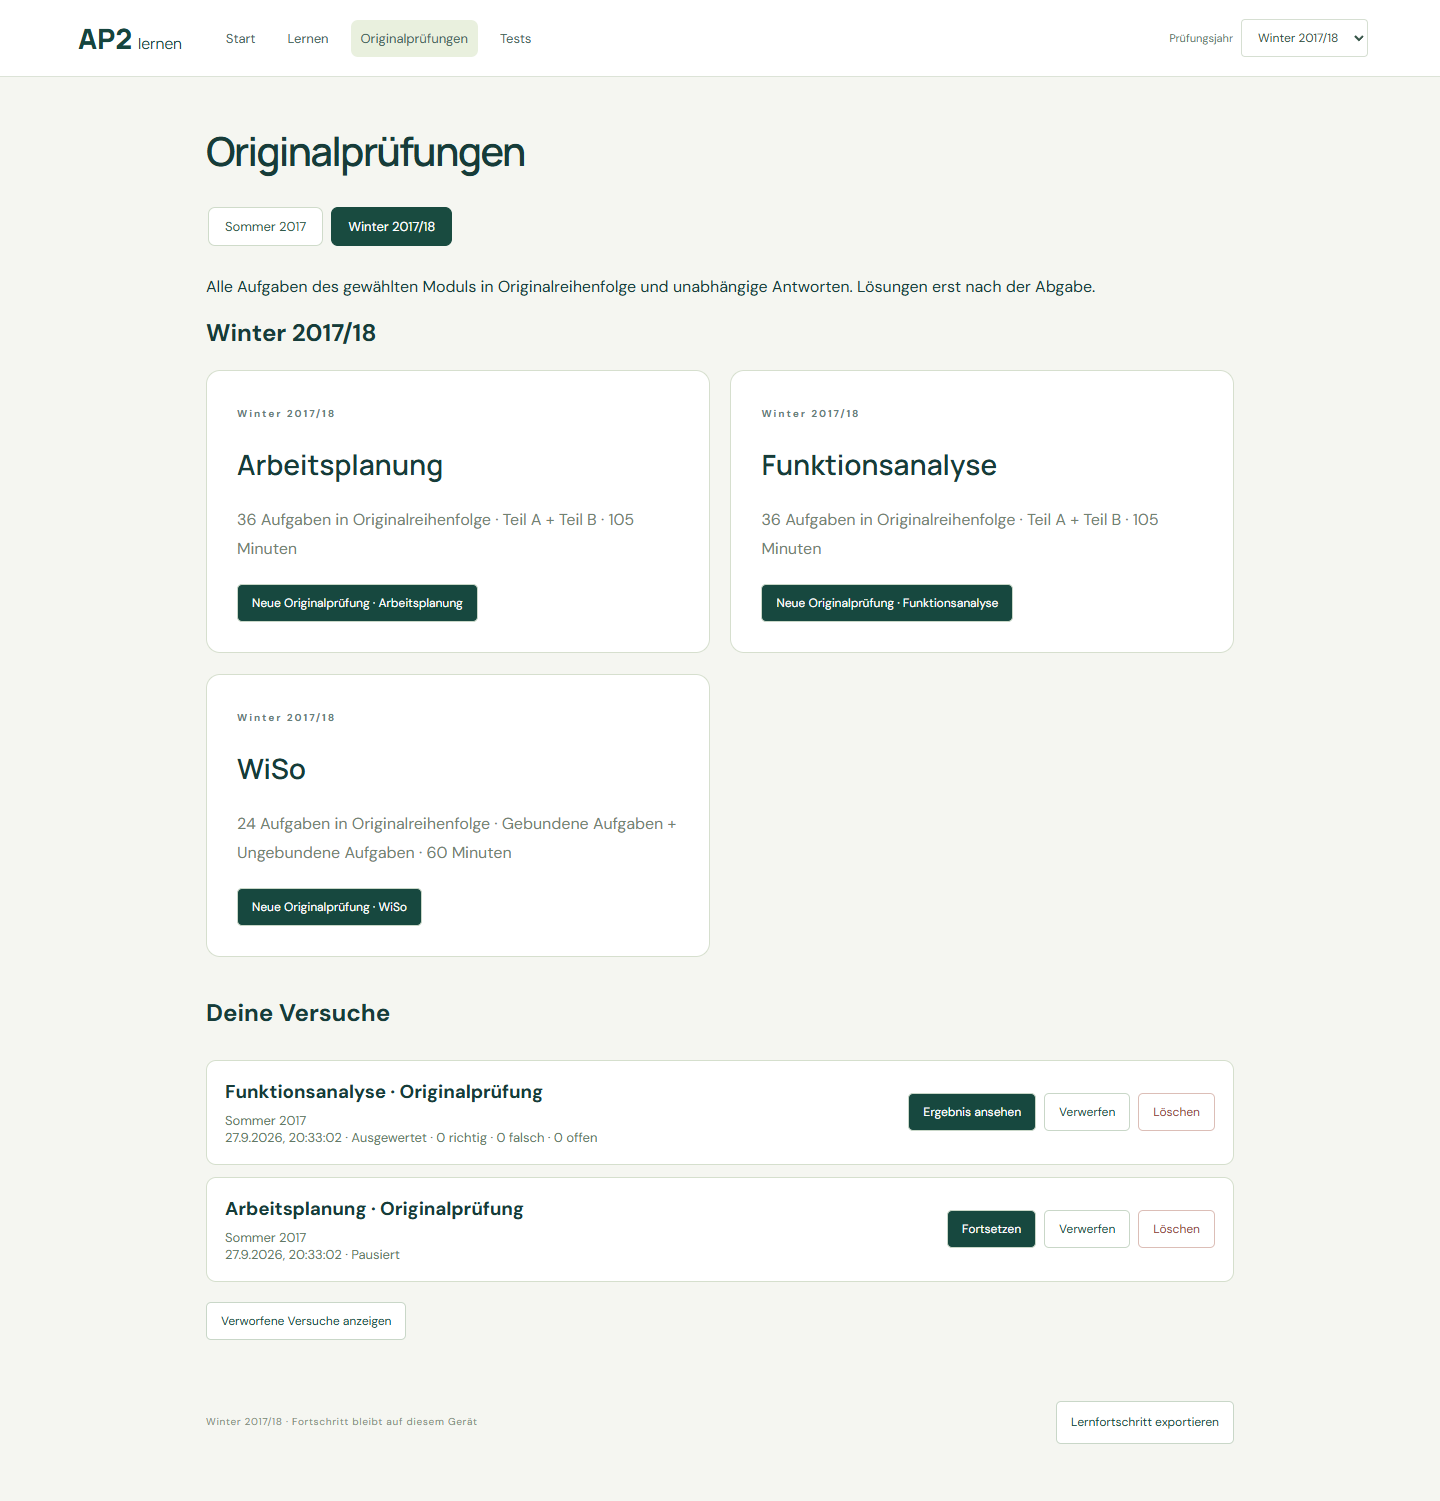
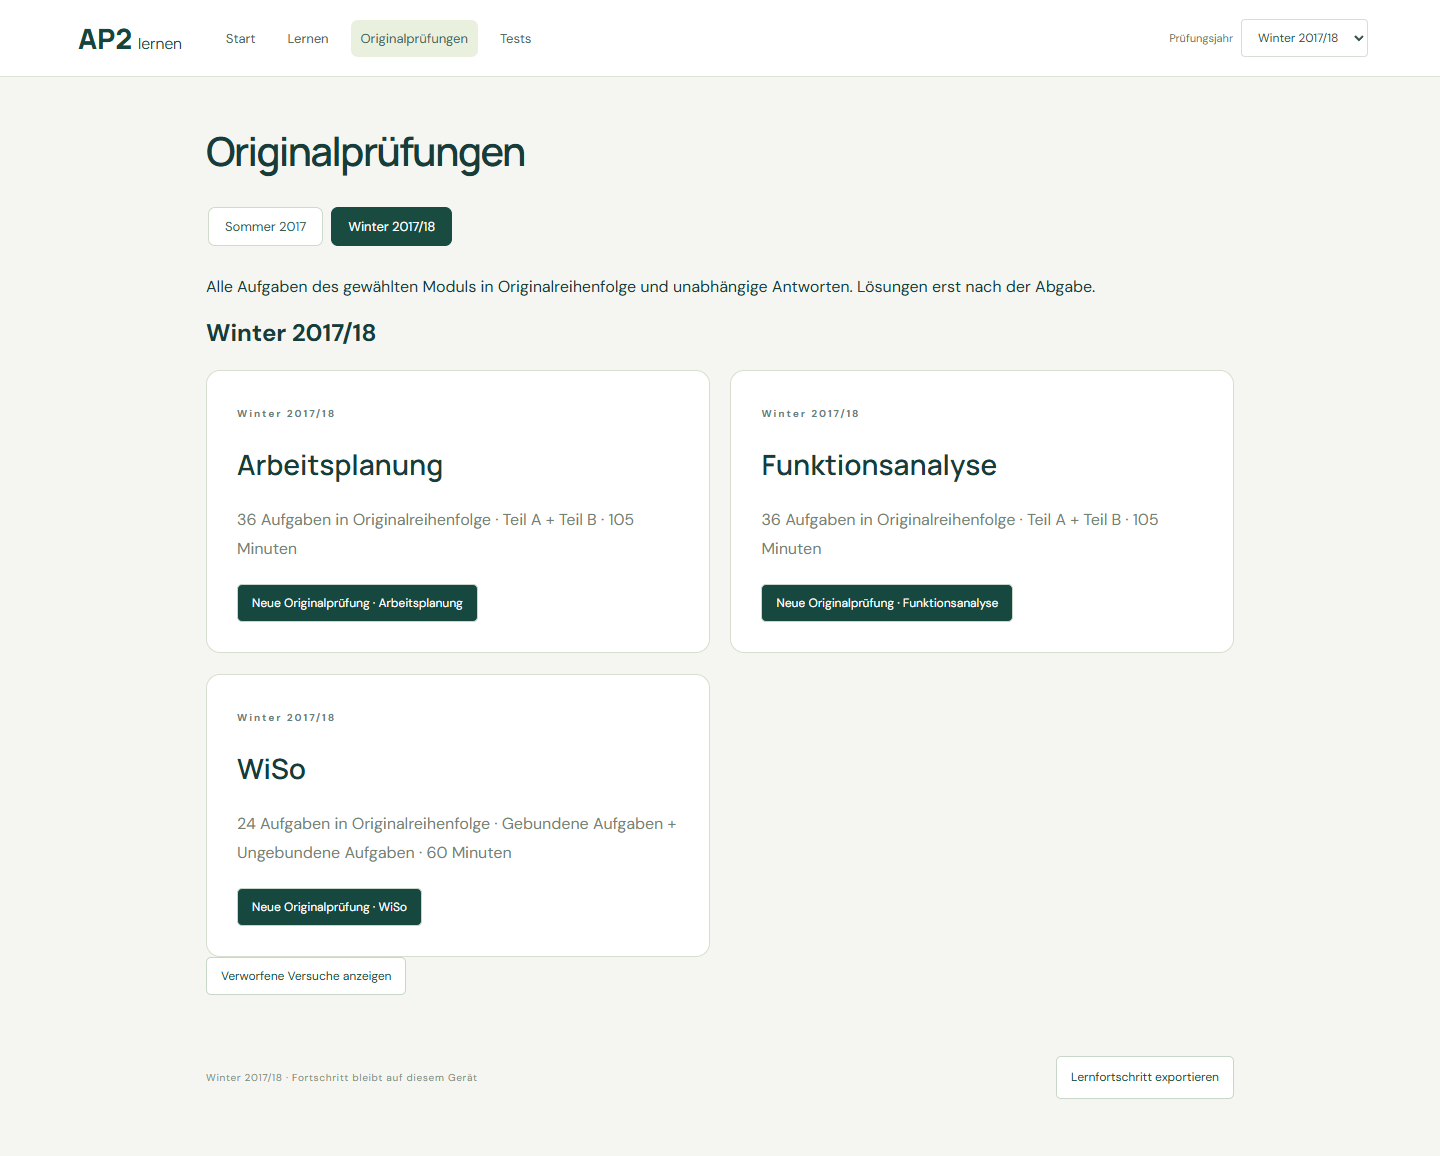
Keep exam history aligned with selected year

diff --git a/src/learning/LearningApp.tsx b/src/learning/LearningApp.tsx
@@ -79,11 +79,12 @@ export default function LearningApp(){
  const progress=moduleProgress(exam?.questions??[],attempts,sessions);const review=reviews.find(r=>r.question_id===original?.question_id);const current=original?effectiveQuestion(original,review):undefined;
  const base=keys?.answers.find(a=>a.question_id===original?.question_id);const answer=base?effectiveAnswer(base,answerReviews.find(r=>r.question_id===original?.question_id)) as OfficialAnswer:undefined;
  const solution=solutions.find(s=>s.question_id===original?.question_id);const currentPart=questionPart(config,original?.question_number??'');
- const savedTests=(type?:TestType)=>[...testSessions].filter(s=>s.status!=='discarded'&&(!type||s.test_type===type)).sort((a,b)=>b.started_at.localeCompare(a.started_at));
+ const inSelectedYear=(s:TestSession)=>s.test_type==='original'?s.exam===locationState.examId:s.exam===locationState.examId||s.source_mix.some(q=>q.exam===locationState.examId);
+ const savedTests=(type?:TestType)=>[...testSessions].filter(s=>s.status!=='discarded'&&(!type||s.test_type===type&&inSelectedYear(s))).sort((a,b)=>b.started_at.localeCompare(a.started_at));
  const deletedTest=(id:string)=>{setTestSessions(all=>all.filter(s=>s.test_id!==id));if(selectedTest?.test_id===id){setSelectedTest(undefined);const next={...locationState,view:'tests' as View,sessionId:undefined};history.replaceState(null,'',routeUrl(next,location.href));setLocationState(next);}};
  const historyList=(list:TestSession[],heading:string)=>list.length?<section className="session-history" aria-label={heading}><h2>{heading}</h2>{list.map(s=>{const result=isEligibleForAnalysis(s)?sessionResult(s):null;return <article key={s.test_id} data-test-id={s.test_id}><div><h3>{findModule(s.exam,s.module)?.title??s.module} · {s.test_type==='original'?'Originalprüfung':`Modultest ${s.mode}`}</h3><p>{[...new Set(s.source_mix.map(q=>examLabel(q.exam)))].join(' + ')||examLabel(s.exam)}</p><p>{new Date(s.started_at).toLocaleString('de-DE')} · {s.status==='active'?'Läuft':s.status==='paused'?'Pausiert':s.status==='completed'?(result?.vorlaeufig?'Vorläufig ausgewertet':'Ausgewertet'):s.status==='discarded'?'Verworfen':'Abgebrochen'}{result?` · ${result.richtig} richtig · ${result.falsch} falsch · ${result.pending} offen`:''}</p></div><div className="record-actions">{!['abandoned','discarded'].includes(s.status)&&<button className="primary" disabled={busy} onClick={()=>openTest(s)}>{s.status==='completed'?'Ergebnis ansehen':'Fortsetzen'}</button>}<RecordLifecycle compact session={s} repository={repository} disabled={busy} onUpdated={updatedTest} onDeleted={deletedTest} onBusy={setLifecycleBusy}/></div></article>;})}</section>:null;
  const testHistory=(type?:TestType,filter?:'unfinished'|'completed')=>historyList(savedTests(type).filter(s=>filter==='unfinished'?['active','paused'].includes(s.status):filter==='completed'?isEligibleForAnalysis(s):true),filter==='unfinished'?'Weiterlernen':filter==='completed'?'Letzte Prüfungen':type?'Deine Versuche':'Prüfungen und Tests');
- const discardedHistory=<section className="discarded-history"><button className="outline" disabled={busy} onClick={()=>setShowDiscarded(v=>!v)}>{showDiscarded?'Verworfene Versuche ausblenden':'Verworfene Versuche anzeigen'}</button>{showDiscarded&&(historyList(testSessions.filter(s=>s.status==='discarded'),'Verworfene Versuche')??<p>Keine verworfenen Versuche.</p>)}</section>;
+ const discardedHistory=<section className="discarded-history"><button className="outline" disabled={busy} onClick={()=>setShowDiscarded(v=>!v)}>{showDiscarded?'Verworfene Versuche ausblenden':'Verworfene Versuche anzeigen'}</button>{showDiscarded&&(historyList(testSessions.filter(s=>s.status==='discarded'&&s.test_type===(locationState.view==='exams'?'original':'module')&&inSelectedYear(s)),'Verworfene Versuche')??<p>Keine verworfenen Versuche.</p>)}</section>;
  const cards=(kind:'dashboard'|'learn'|'original'|'module',examId?:string)=>MODULES.filter(m=>examId?m.examId===examId:kind!=='module'||MODULES.find(x=>x.slug===m.slug)===m).map(m=>{const b=bundles[moduleKey(m)];const p=moduleProgress(b?.exam.questions??[],attempts,sessions);const type=kind==='original'?'original':'module';const existing=testSessions.find(s=>s.module===m.slug&&(kind==='module'||s.exam===m.examId)&&s.test_type===type&&['active','paused'].includes(s.status));return <section className="exam-card" key={moduleKey(m)}><span className="eyebrow">{kind==='module'?MODULES.filter(c=>c.slug===m.slug).map(c=>examLabel(c.examId)).join(' + '):examLabel(m.examId)}</span><h2>{m.title}</h2>{b?<>{kind==='dashboard'||kind==='learn'?<><p>{p.practiced}/{b.exam.questions.length} frei geübt · {p.attempts} Lernversuche</p><p className="hint">Letzte Lernaktivität: {p.lastActivity?new Date(p.lastActivity).toLocaleString('de-DE'):'Noch nicht begonnen'}</p>{kind==='dashboard'?<button className="primary" disabled={busy||!personalLoaded} onClick={()=>navigate('study',p.resumeNumber,m.slug,m.examId)}>Lernen fortsetzen · {m.title}</button>:<div className="part-cards">{moduleParts(m,b.exam.questions).map(part=><button key={part.id} disabled={busy||!personalLoaded} onClick={()=>navigate('study',part.questions[0].question_number,m.slug,m.examId)}><strong>{part.title}</strong><span>{part.questions.length} {part.label}</span><small>Frei auswählen und üben →</small></button>)}</div>}</>:<><p>{kind==='original'?`${b.exam.questions.length} Aufgaben in Originalreihenfolge · ${m.parts.map(p=>p.title).join(" + ")} · ${m.durationMinutes===null?'Prüfungszeit noch nicht bestätigt':m.durationMinutes+' Minuten'}`:`Neue gemischte Auswahl aus ${m.parts.map(p=>p.title).join(' und ')}. Eigene Sitzung ohne vorausgefüllte Antworten.`}</p>{existing&&<p>Eine {existing.status==='paused'?'pausierte':'laufende'} Sitzung ist gespeichert.</p>}<div className="session-launch">{existing&&<button className="primary" disabled={busy||!personalLoaded} onClick={()=>openTest(existing)}>Fortsetzen · {m.title}</button>}{kind==='original'?<button className={existing?'outline':'primary'} disabled={busy||!personalLoaded} onClick={()=>void startTest(moduleKey(m),'original')}>Neue Originalprüfung · {m.title}</button>:<><button className="outline" disabled={busy||!personalLoaded} onClick={()=>void startTest(moduleKey(m),'module','kurz')}>Kurz starten · 6 MC + 2 U</button><button className="outline" disabled={busy||!personalLoaded} onClick={()=>void startTest(moduleKey(m),'module','standard')}>Standard starten · 12 MC + 4 U</button></>}</div></>}</>:<p role={moduleErrors[moduleKey(m)]?'alert':'status'}>{moduleErrors[moduleKey(m)]??'Modul wird geladen…'}</p>}</section>;});
  const seasonCards=(kind:'dashboard'|'learn'|'original')=>EXAM_SESSIONS.filter(season=>season.id===locationState.examId).map(season=><section className="exam-season" key={season.id} aria-label={season.label}><h2>{season.label}</h2><div className="module-cards">{cards(kind,season.id)}{Object.entries(MODULE_TITLES).filter(([slug])=>!findModule(season.id,slug)).map(([slug,title])=><section className="exam-card" key={slug}><h3>{title}</h3><p>Noch nicht verfügbar</p></section>)}</div></section>);
  const yearTabs=<nav className="exam-year-tabs" aria-label="Prüfungsjahr filtern">{EXAM_SESSIONS.filter(season=>MODULES.some(m=>m.examId===season.id)).map(season=><button key={season.id} disabled={busy} aria-current={locationState.examId===season.id?'true':undefined} onClick={()=>switchExam(season.id)}>{season.label}</button>)}</nav>;
